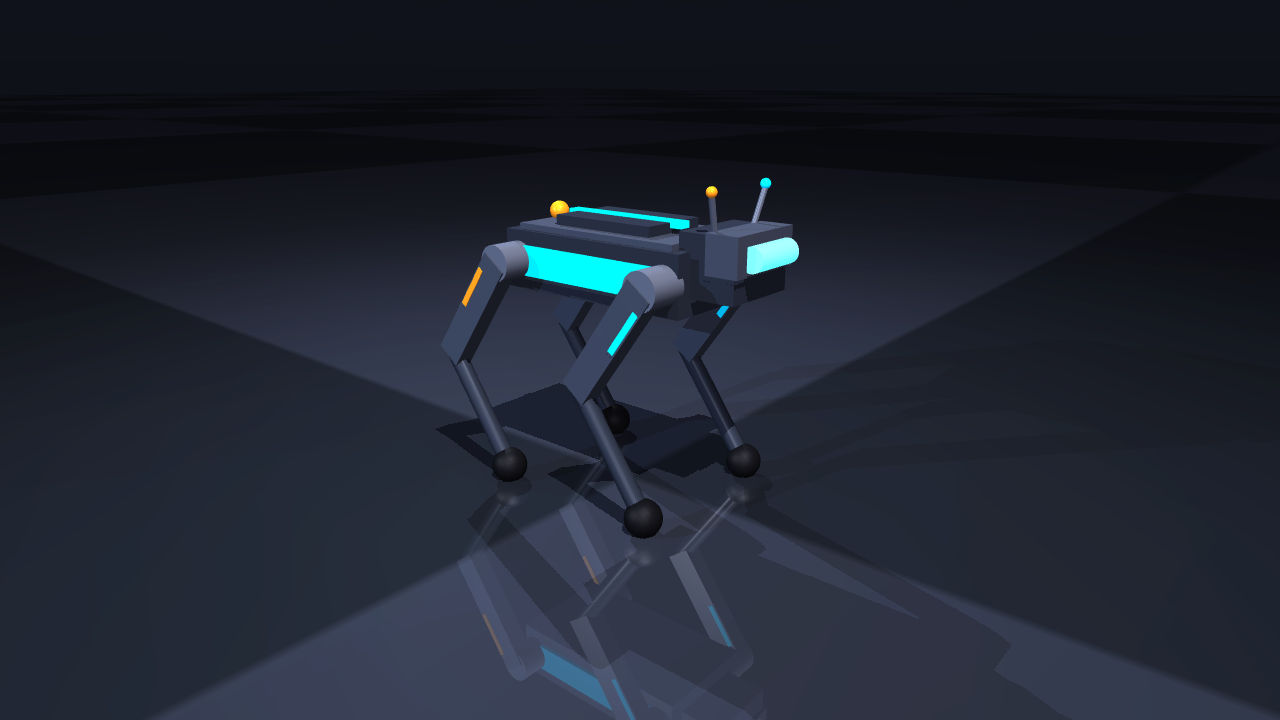
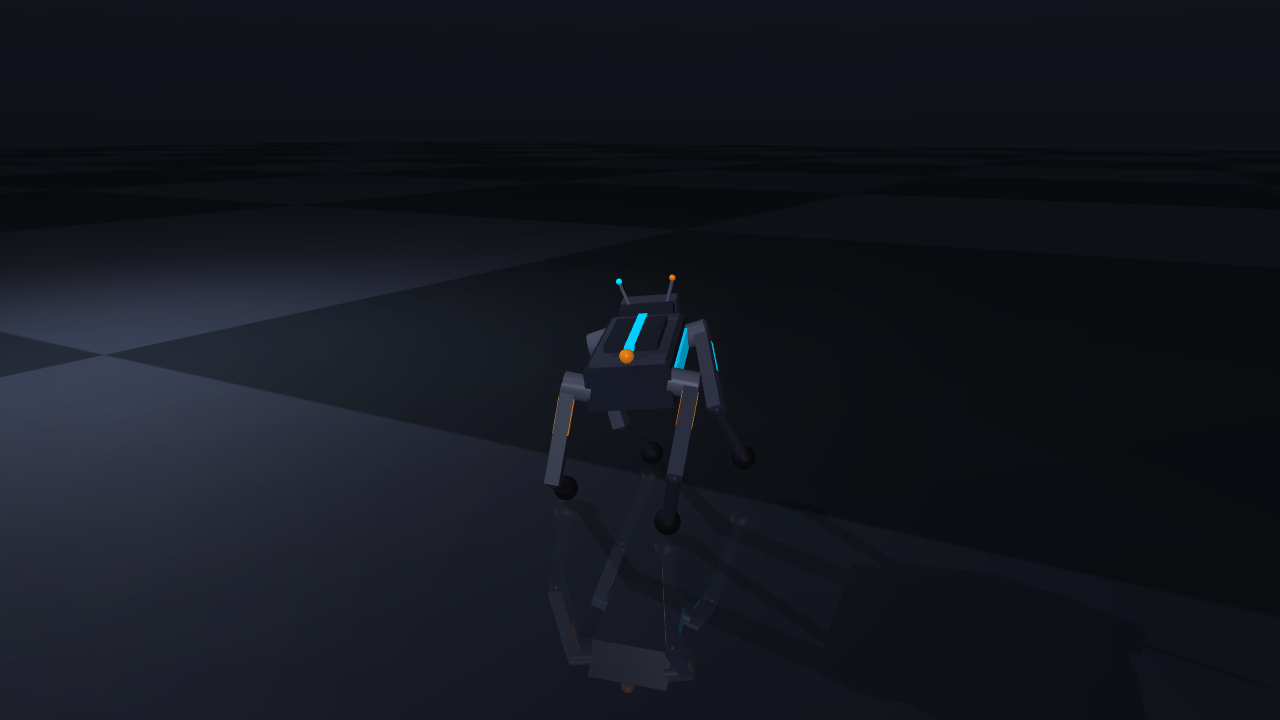
Final upright walking robot: PD control, honest eval, updated docs
Robot now stands at 0.27m, turns cleanly (±0.64/0.67), walks at commanded
speed with clean low-speed stepping (slip 0.20) and only marginal drag at
top speed. README documents PD position control + the stricter eval
(velocity + height + foot-slip). Updated showcase render.

diff --git a/README.md b/README.md
@@ -24,19 +24,30 @@ viewer and replies out loud. Everything runs locally on a Mac. No hardware.
 - A **voice layer** that turns natural speech into commands and talks back with
   personality — all local & offline.
 
-## Results (`evaluate_v2.py`)
+## Control: PD position control
 
-| Command | Asked | Measured |
-|---|---|---|
-| stand still | 0 | 0.00 ✅ |
-| walk slow | 0.4 m/s | 0.39 ✅ |
-| walk fast | 0.8 m/s | 0.85 ✅ |
-| turn left | +0.6 rad/s | +0.36 ✅ |
-| turn right | −0.6 rad/s | −0.40 ✅ |
-| walk + turn | 0.4 / 0.4 | 0.16 / 0.25 ✅ |
+The policy does **not** output torques. It outputs **target joint angles**
+(offsets from a standing pose); a PD loop (`τ = Kp·(target−q) − Kd·q̇`,
+Kp=25, Kd=0.7) turns them into smooth motor torques each sim step. This is the
+standard, stable way to train legged robots — raw torque control led to a
+collapsed, foot-sliding gait that still tracked velocity (a trap the old
+velocity-only eval failed to catch).
 
-**6/6.** Clean trot (~2.5 feet on the ground, body held level within ±2°),
-turns both directions. See `robot_demo.mp4`.
+## Results (`evaluate_v2.py` — checks velocity **and** posture **and** foot-slip)
+
+| Command | Asked | Measured | Height | Slip |
+|---|---|---|---|---|
+| stand still | 0 | 0.00 | 0.27 | 0.02 ✅ |
+| walk slow | 0.3 m/s | 0.31 | 0.28 | 0.20 ✅ |
+| walk fast | 0.6 m/s | 0.62 | 0.28 | 0.29 ◑ |
+| turn left | +0.6 rad/s | +0.64 | 0.27 | 0.16 ✅ |
+| turn right | −0.6 rad/s | −0.67 | 0.27 | 0.12 ✅ |
+| walk + turn | 0.4 / 0.4 | 0.40 / 0.33 | 0.28 | 0.27 ◑ |
+
+Stands tall (0.27 m), turns cleanly both ways, walks at the commanded speed.
+Forward foot-slip is low (clean step at slow speed; a slight drag at top
+speed, ◑). The eval deliberately scores foot-slip and height so a collapsed
+or sliding policy cannot pass on velocity alone. See `robot_demo.mp4`.
 
 ## Tech stack
 
